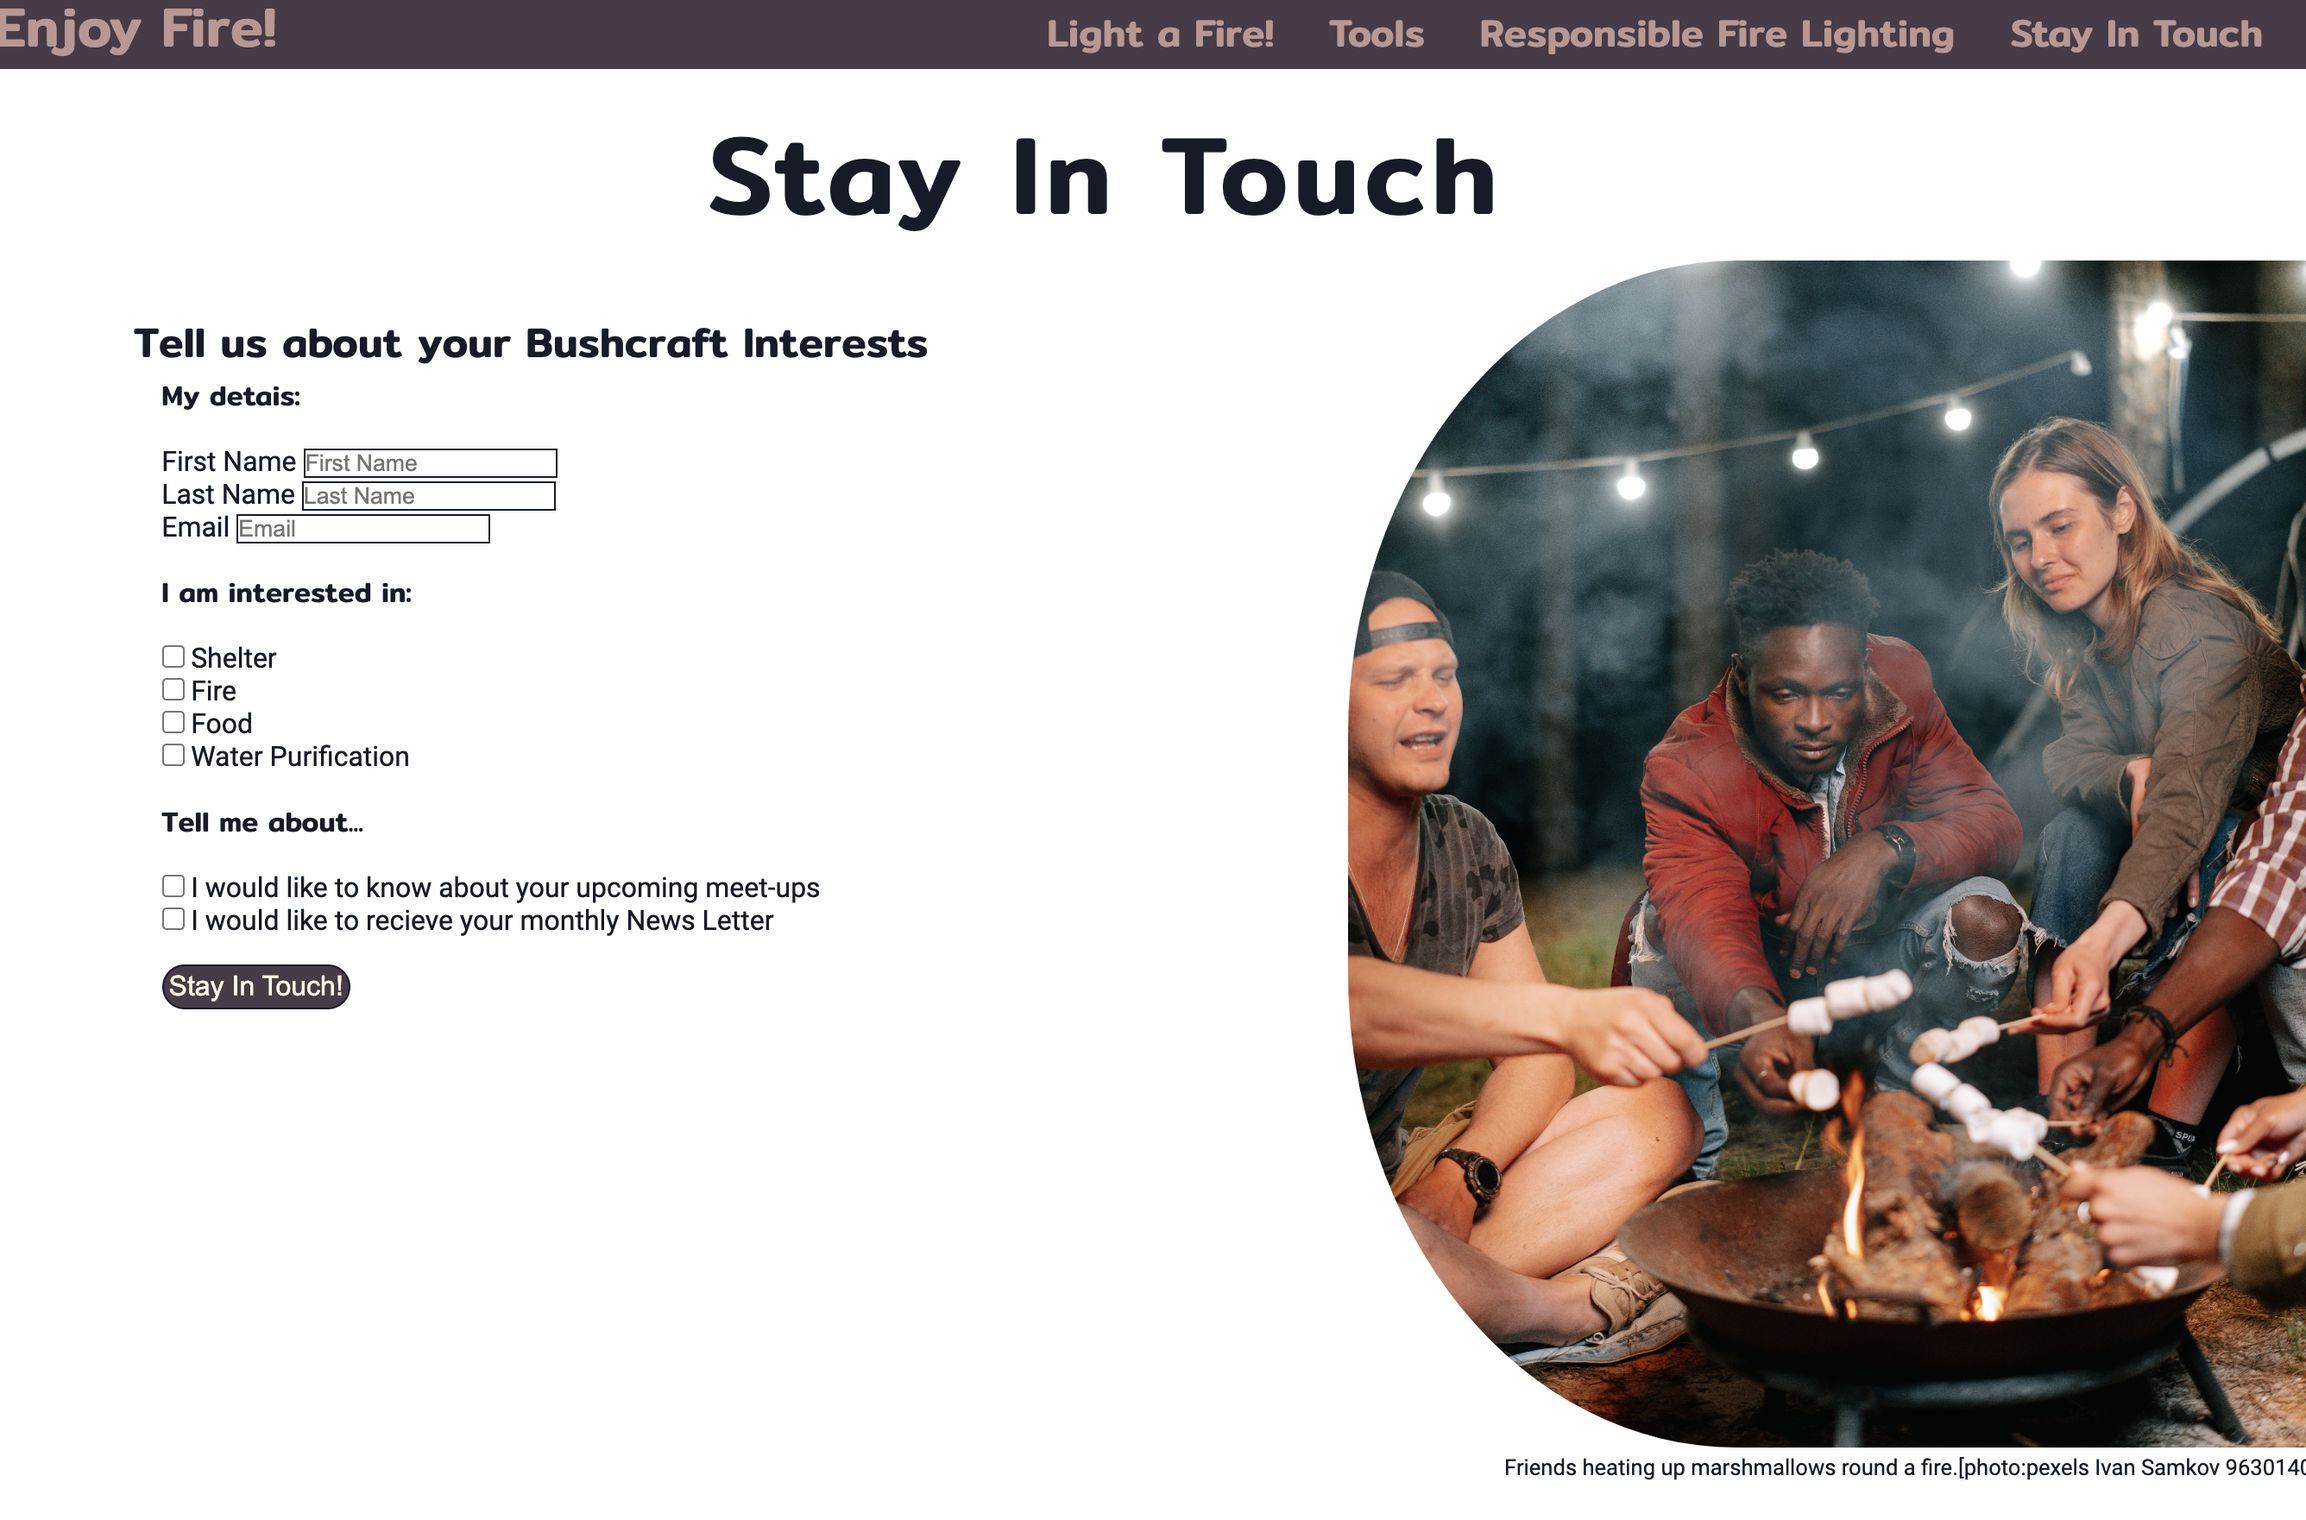
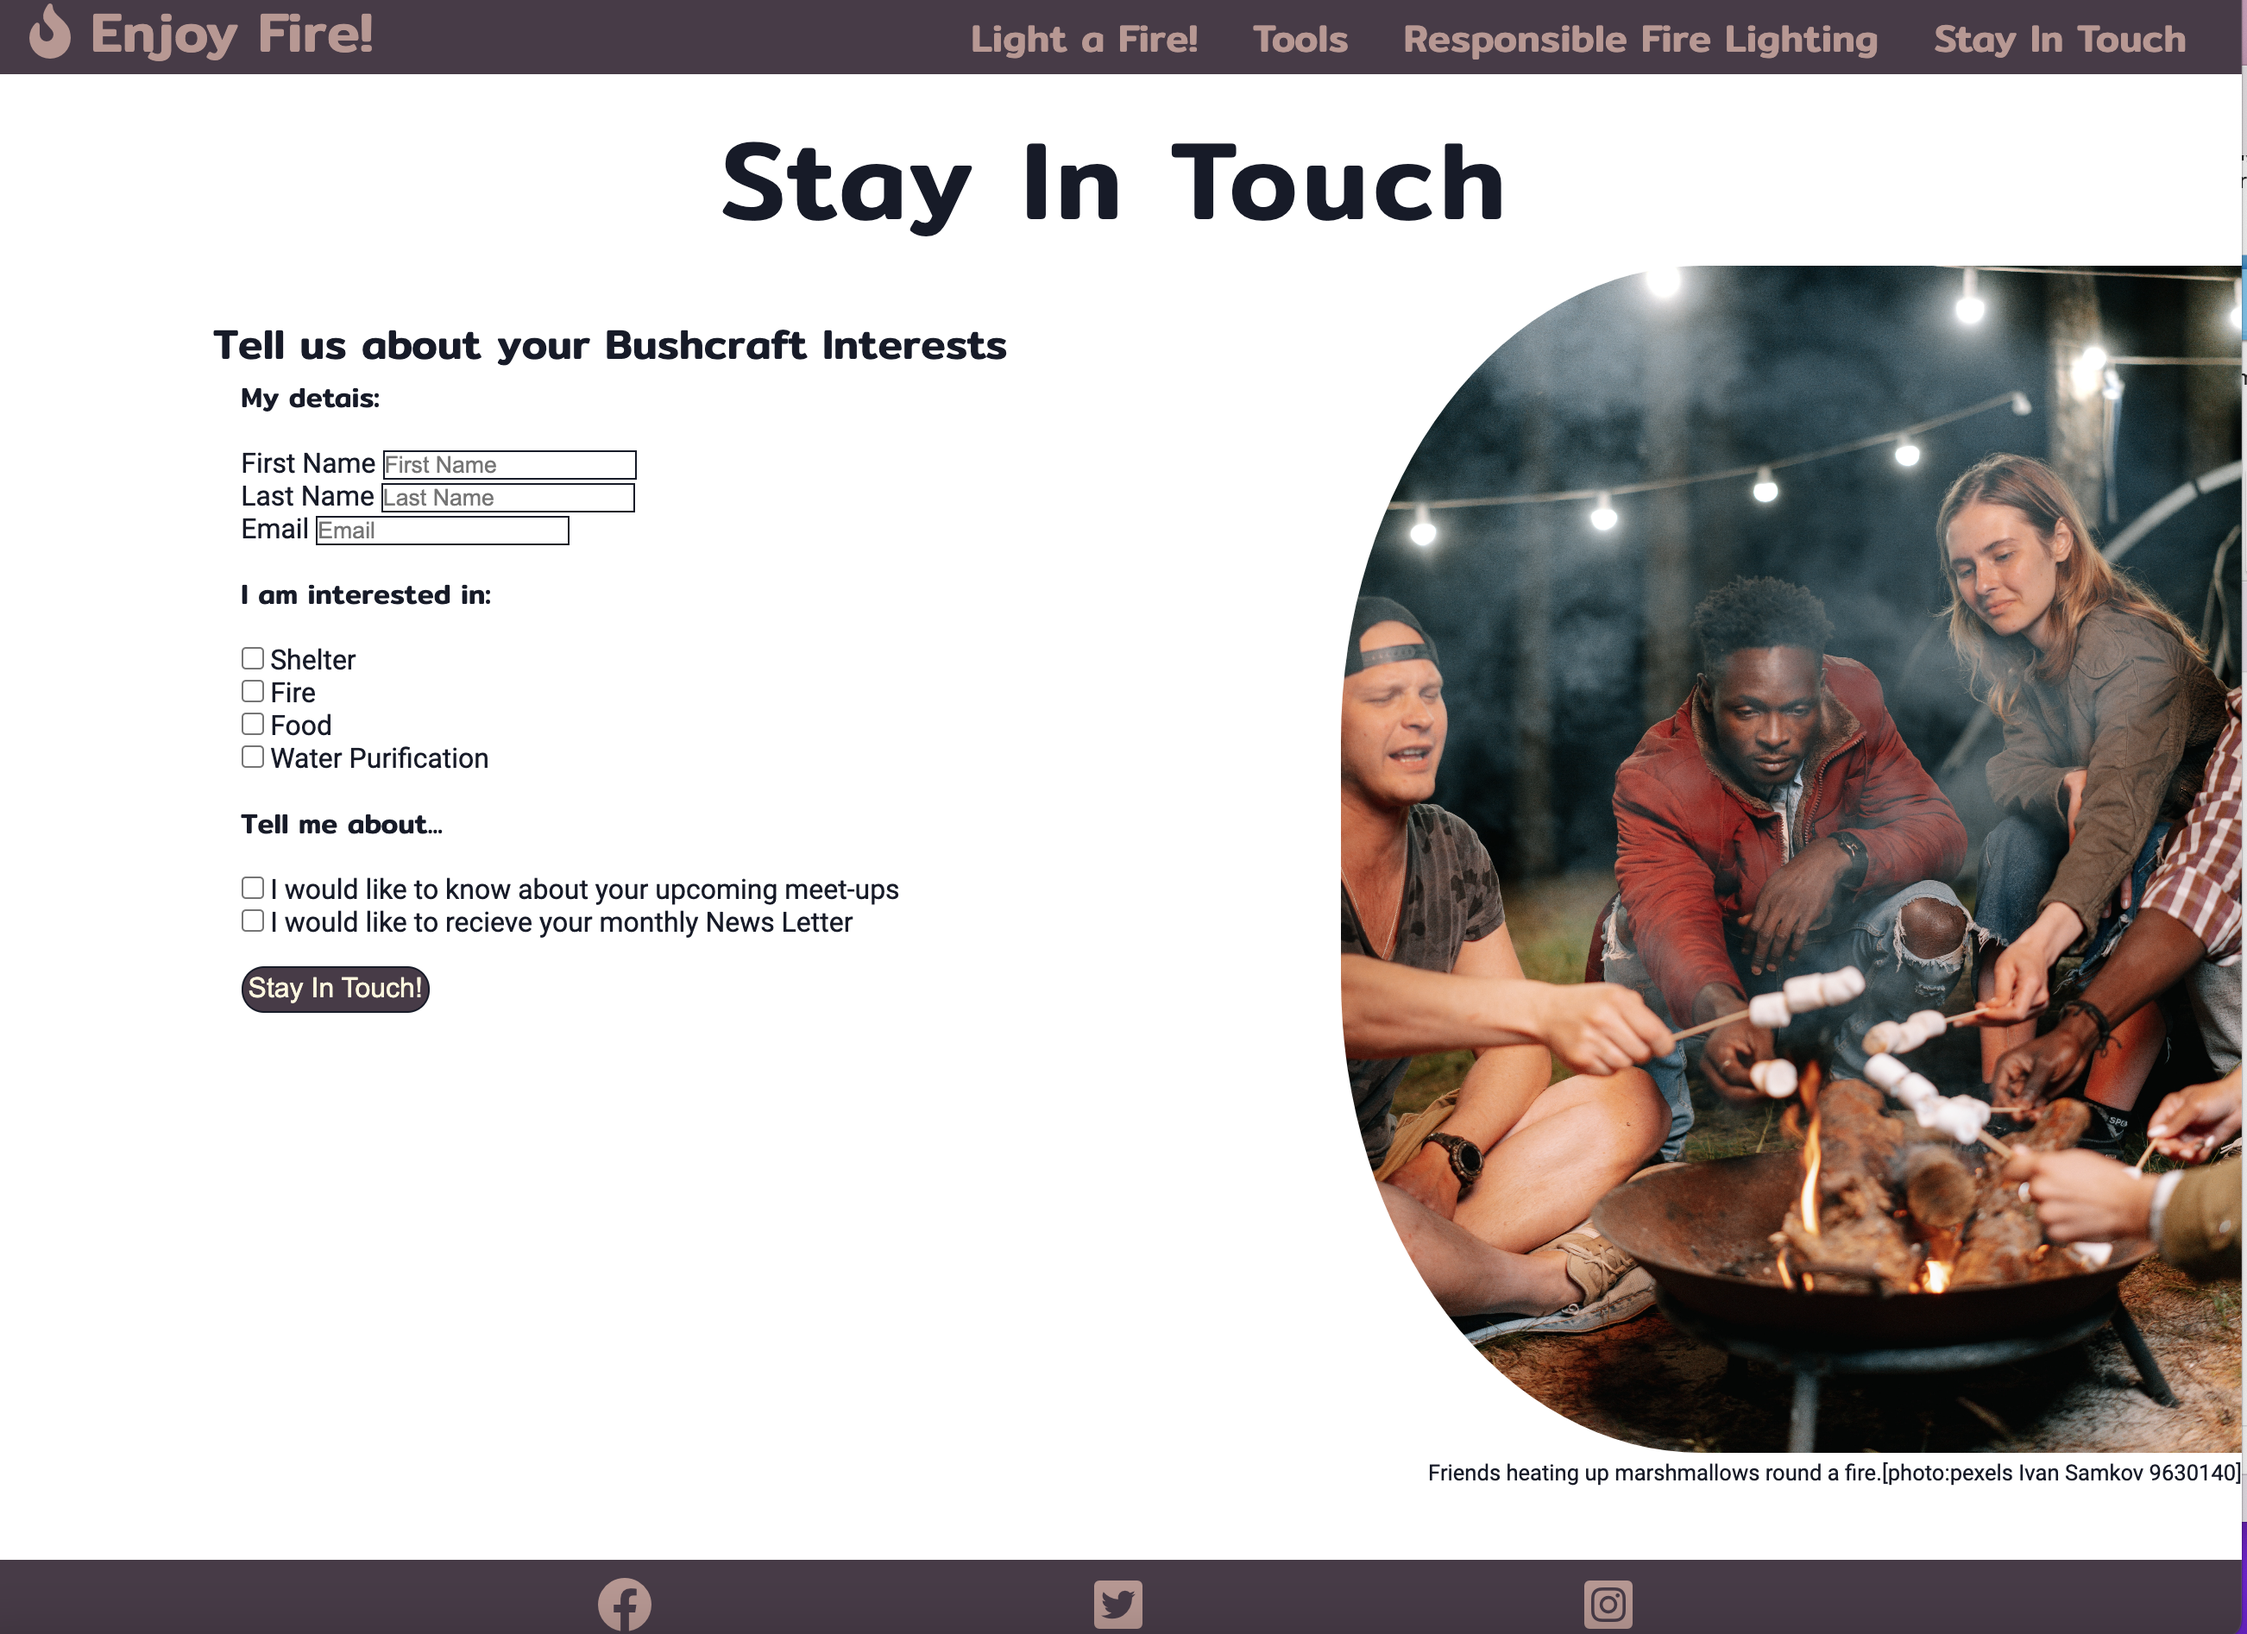
change stay-in-touch.png

diff --git a/README.md b/README.md
@@ -207,6 +207,8 @@ The submit button is responsive consisitent with all the other call-to-action bu
 
 Since this project is limited to a static website it is beyond the scope of the project to handle any form data. A simulated server response is created by linking the submit button to a 'Response page' in which the user is thanked for their interaction.
 
+The Stay In Touch section is the last on index.html so this section displys the footer at the bottom.
+
 ![Stay In Touch](/assets/images/stay-in-touch.png)
 
 
